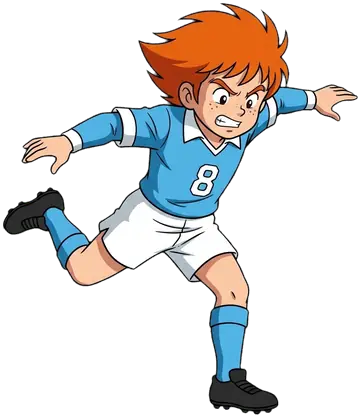
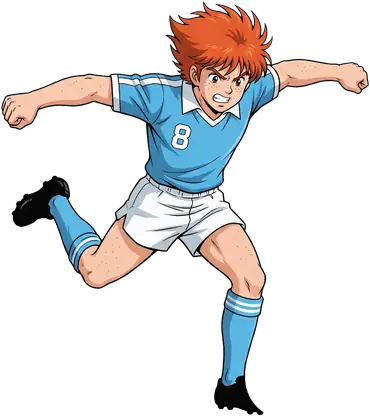
Poner el remate del colorado en manga corta con su pelota medida

diff --git a/phaser/sw.js b/phaser/sw.js
@@ -185,7 +185,7 @@ const ASSETS_HUELLA = {
   "assets/poses/hincha_mate.webp": "7330-8cc92edfa4ab",
   "assets/poses/hincha_parado.webp": "5388-944ad0cbd854",
   "assets/poses/identidades/jugador_colorado.png": "280298-e4254b46ef29",
-  "assets/poses/identidades/jugador_colorado_remate.webp": "16104-5ac86ccf012b",
+  "assets/poses/identidades/jugador_colorado_remate.webp": "16260-284fabfddeac",
   "assets/poses/identidades/jugador_largo.png": "289883-fc41adb6e4ad",
   "assets/poses/identidades/jugador_largo_izq.webp": "44666-cb3e16a382a6",
   "assets/poses/identidades/jugador_largo_remate.webp": "17268-fac1c4223c6e",
